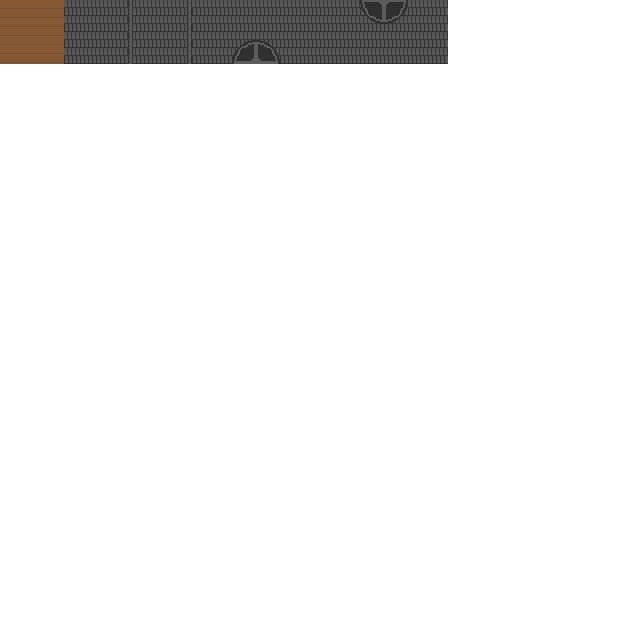
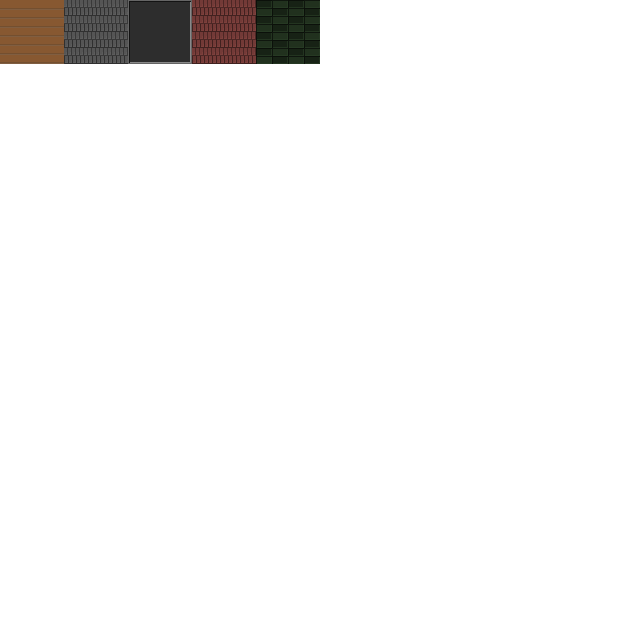
v 0.3.4
Map generation complete

Changed region(s): [[0.1875, 0.0, 0.7188, 0.125]]

diff --git a/src/com/bourneless/roguelike/map/Map.java b/src/com/bourneless/roguelike/map/Map.java
@@ -7,15 +7,17 @@ import java.util.Random;
 import com.bourneless.engine.main.Main;
 import com.bourneless.engine.math.Vector2;
 import com.bourneless.roguelike.entity.Entity;
+import com.bourneless.roguelike.entity.destroyableentity.Door;
 import com.bourneless.roguelike.entity.livingentity.player.Player;
 import com.bourneless.roguelike.map.tile.Tile;
 import com.bourneless.roguelike.map.tile.TileClass;
+import com.bourneless.roguelike.map.tile.TileType;
 import com.bourneless.roguelike.map.tile.WallTileType;
 import com.bourneless.roguelike.screen.LoadScreen;
 
 public class Map {
 
-	private Tile[][] tiles = new Tile[100][100];
+	private Tile[][] tiles = new Tile[103][103];
 	private Room room;
 	private ArrayList<Entity> entities = new ArrayList<Entity>();
 	private Random random = new Random();
@@ -43,63 +45,94 @@ public class Map {
 
 		int roomCount = 500;
 
+		int x = 1;
+		int y = 1;
+		int rowLength = 0;
+
 		for (int i = 0; i < roomCount; i++) {
 
-			int roomTry = 50000;
+			int roomTry = 20000;
 			Room room = null;
 			int size = 0;
-			int x = 0;
-			int y = 0;
+			int size2 = 0;
 			boolean canSpawn = true;
 
 			if (rooms.size() == 0) {
-				size = 5 + random.nextInt(10 - 5 + 1);
+				size = 10;
+				size2 = 10;
+
 				size *= Tile.size;
+				size2 *= Tile.size;
 
-				x = random.nextInt(tiles.length * 64 - size);
-				y = random.nextInt(tiles.length * 64 - size);
+				x *= 64;
+				y *= 64;
 
-				room = new Room(x, y, size, size);
+				room = new Room(x, y, size, size2);
 
 				rooms.add(new Room(room.getRect().x, room.getRect().y, room
 						.getRect().width, room.getRect().height));
+
+				if (x / 64 + size / 64 < tiles.length) {
+					x += size;
+				}
 			}
 
-			looper: for (int j = 0; j < roomTry; j++) {
-				size = 5 + random.nextInt(10 - 5 + 1);
+			for (int j = 0; j < roomTry; j++) {
+				size = 10;
+				size2 = 10;
+
 				size *= Tile.size;
+				size2 *= Tile.size;
 
-				x = random.nextInt(tiles.length * 64 - size);
-				y = random.nextInt(tiles.length * 64 - size);
+				if (x / 64 + size / 64 < tiles.length
+						&& y / 64 + size2 / 64 < tiles.length) {
+					room = new Room(x, y, size, size2);
 
-				room = new Room(x, y, size, size);
+					boolean checkRooms = true;
 
-				boolean checkRooms = true;
-
-				tryingRoom: if (checkRooms) {
-					for (Room r : rooms) {
-						if (r.getRect().intersects(room.getRect())
-								|| r.getRect().contains(room.getRect())
-								|| room.getRect().contains(r.getRect())
-								|| room.getRect().intersects(r.getRect())) {
-							canSpawn = false;
-							checkRooms = false;
-							break tryingRoom;
+					tryingRoom: if (checkRooms) {
+						for (Room r : rooms) {
+							if (r.getRect().intersects(room.getRect())
+									|| r.getRect().contains(room.getRect())
+									|| room.getRect().contains(r.getRect())
+									|| room.getRect().intersects(r.getRect())) {
+								canSpawn = false;
+								checkRooms = false;
+								break tryingRoom;
+							}
 						}
 					}
-				}
 
-				if (canSpawn) {
-					Room newRoom = new Room(room.getRect().x, room.getRect().y,
-							room.getRect().width, room.getRect().height);
-					rooms.add(newRoom);
-					newRoom = null;
+					if (canSpawn) {
+						if (x / 64 + size / 64 < tiles.length
+								&& y / 64 + size2 / 64 < tiles.length) {
+							Room newRoom = new Room(room.getRect().x,
+									room.getRect().y, room.getRect().width,
+									room.getRect().height);
+							rooms.add(newRoom);
+							newRoom = null;
+
+							if (x / 64 + size / 64 < tiles.length - 1) {
+								x += size;
+							}
+						}
+
+						break;
+					}
 				}
 			}
+
 			if (i % 100 == 0) {
 				LoadScreen screen = (LoadScreen) Main.game.getScreen();
 				screen.changeString();
 			}
+
+			if (x / 64 + size / 64 > tiles.length - 1) {
+				rowLength = rooms.size();
+				x = 1 * Tile.size;
+				y += rooms.get(rooms.size() - rowLength).getRect().getHeight();
+			}
+
 		}
 
 		fillRects();
@@ -116,15 +149,23 @@ public class Map {
 							r.getTileStyle(), TileClass.FLOOR, i, j, 0);
 				}
 			}
+
 		}
 
-		for (int i = 0; i < tiles.length; i++) {
-			for (int j = 0; j < tiles.length; j++) {
-				if (j == 0 || i == 0 || j == tiles.length - 1
-						|| i == tiles.length - 1) {
-					tiles[i][j].setTileClass(TileClass.WALL);
-					tiles[i][j].setTileType(WallTileType.TOP_WALL);
-					tiles[i][j].setPassable(false);
+		for (Room r : rooms) {
+			for (int i = (int) r.getRect().getX() / 64; i < r.getRect().getX()
+					/ 64 + r.getRect().width / 64; i++) {
+				for (int j = (int) r.getRect().getY() / 64; j < r.getRect()
+						.getY() / 64 + r.getRect().height / 64; j++) {
+					if (i == (int) r.getRect().getX() / 64
+							|| j == (int) r.getRect().getY() / 64
+							|| i == (int) r.getRect().getX() / 64
+									+ r.getRect().width / 64
+							|| j == (int) r.getRect().getY() / 64
+									+ r.getRect().height / 64) {
+						tiles[i][j] = new Tile(new Vector2(i * 64, j * 64),
+								WallTileType.TOP_WALL, TileClass.WALL, i, j, 0);
+					}
 				}
 			}
 		}
@@ -147,16 +188,109 @@ public class Map {
 			}
 		}
 
+		for (Room r : rooms) {
+			for (int i = (int) r.getRect().getX() / 64; i < r.getRect().getX()
+					/ 64 + r.getRect().width / 64; i++) {
+				for (int j = (int) r.getRect().getY() / 64; j < r.getRect()
+						.getY() / 64 + r.getRect().height / 64; j++) {
+					if (i == (int) r.getRect().getX() / 64
+							|| j == (int) r.getRect().getY() / 64
+							|| i == (int) r.getRect().getX() / 64
+									+ r.getRect().width / 64
+							|| j == (int) r.getRect().getY() / 64
+									+ r.getRect().height / 64) {
+						tiles[i][j] = new Tile(new Vector2(i * 64, j * 64),
+								WallTileType.TOP_WALL, TileClass.WALL, i, j, 0);
+					}
+				}
+			}
+		}
+
+		for (int i = 0; i < tiles.length; i++) {
+			for (int j = 0; j < tiles.length; j++) {
+				if (j == 0 || i == 0 || j == tiles.length - 1
+						|| i == tiles.length - 1) {
+					tiles[i][j].setTileClass(TileClass.WALL);
+					tiles[i][j].setTileType(WallTileType.TOP_WALL);
+					tiles[i][j].setPassable(false);
+				}
+			}
+		}
+
+		for (Room r : rooms) {
+			while (!r.isHasEastDoor()) {
+				if (r.getRect().getX() / 64 < 90) {
+					for (int i = r.getRect().x / 64; i <= r.getRect().x / 64
+							+ r.getRect().width / 64; i++) {
+						for (int j = r.getRect().y / 64; j <= r.getRect().y
+								/ 64 + r.getRect().height / 64; j++) {
+							if (i == r.getRect().x / 64 + r.getRect().width
+									/ 64
+									&& j > r.getRect().y / 64
+									&& j < r.getRect().y / 64
+											+ r.getRect().height / 64) {
+								if (random.nextInt(100) == 1
+										&& !r.isHasEastDoor()) {
+									Door door = new Door(tiles[i][j],
+											Main.resourceLoader.door, true);
+									tiles[i][j].setLayer(0);
+									tiles[i][j].addEntity(door);
+									tiles[i][j].setTileClass(TileClass.FLOOR);
+									tiles[i][j].setTileType(TileType.TUNNEL);
+									entities.add(door);
+									r.setHasEastDoor(true);
+								}
+							}
+						}
+					}
+				} else {
+					r.setHasEastDoor(true);
+				}
+			}
+
+			while (!r.isHasSouthDoor()) {
+				if (r.getRect().getY() / 64 < 90) {
+					for (int i = r.getRect().x / 64; i <= r.getRect().x / 64
+							+ r.getRect().width / 64; i++) {
+						for (int j = r.getRect().y / 64; j <= r.getRect().y
+								/ 64 + r.getRect().height / 64; j++) {
+							if (j == r.getRect().y / 64 + r.getRect().height
+									/ 64
+									&& i > r.getRect().x / 64
+									&& i < r.getRect().x / 64
+											+ r.getRect().width / 64) {
+								if (random.nextInt(100) == 1
+										&& !r.isHasSouthDoor()) {
+									Door door = new Door(tiles[i][j],
+											Main.resourceLoader.door, false);
+									tiles[i][j].setLayer(0);
+									tiles[i][j].addEntity(door);
+									tiles[i][j].setTileClass(TileClass.FLOOR);
+									tiles[i][j].setTileType(TileType.TUNNEL);
+									entities.add(door);
+									r.setHasSouthDoor(true);
+								}
+							}
+						}
+					}
+				} else {
+					r.setHasSouthDoor(true);
+				}
+			}
+
+		}
+
 		boolean hasPlayer = false;
 
 		int spawnPlayer = 0;
 
 		while (!hasPlayer) {
-			System.out.println("spawnin");
 			for (int i = 0; i < tiles.length; i++) {
 				for (int j = 0; j < tiles[i].length; j++) {
 					if (tiles[i][j] != null) {
-						if (tiles[i][j].getTileClass() == TileClass.FLOOR) {
+
+						if (tiles[i][j].getTileClass() == TileClass.FLOOR
+								&& tiles[i][j].getTileType() != TileType.TUNNEL) {
 							spawnPlayer = random.nextInt(1000);
 							if (spawnPlayer == 1 && !hasPlayer) {
 								player = new Player(tiles[i][j],
@@ -171,6 +305,7 @@ public class Map {
 				}
 			}
 		}
+
 	}
 
 	public void update(int xOffset, int yOffset) {

diff --git a/src/com/bourneless/roguelike/map/Room.java b/src/com/bourneless/roguelike/map/Room.java
@@ -25,12 +25,17 @@ public class Room {
 	private int xOffset = 0;
 	private int yOffset = 0;
 
+	private boolean hasEastDoor = false;
+	private boolean hasSouthDoor = false;
+
+	private boolean hasCorridor = false;
+
 	private Player player;
 
 	private Rectangle rect;
 
 	public Room(int x, int y, int size, int size2) {
-		rect = new Rectangle(x, y, size, size);
+		rect = new Rectangle(x, y, size, size2);
 
 		this.tileType = random.nextInt(Main.resourceLoader.tiles.length);
 	}
@@ -62,6 +67,30 @@ public class Room {
 
 	public int getTileStyle() {
 		return this.tileType;
+	}
+
+	public boolean getCorridor() {
+		return this.hasCorridor;
+	}
+
+	public void setHasCorridor(boolean bool) {
+		this.hasCorridor = bool;
+	}
+
+	public boolean isHasEastDoor() {
+		return hasEastDoor;
+	}
+
+	public void setHasEastDoor(boolean hasEastDoor) {
+		this.hasEastDoor = hasEastDoor;
+	}
+
+	public boolean isHasSouthDoor() {
+		return hasSouthDoor;
+	}
+
+	public void setHasSouthDoor(boolean hasSouthDoor) {
+		this.hasSouthDoor = hasSouthDoor;
 	}
 
 }

diff --git a/src/com/bourneless/roguelike/screen/LoadScreen.java b/src/com/bourneless/roguelike/screen/LoadScreen.java
@@ -20,10 +20,11 @@ public class LoadScreen extends Screen {
 
 	private Random random = new Random();
 	private Font font;
-	private String loadingText = "Loading Friends..";
+	private String loadingText = "";
 
 	public LoadScreen() {
 		font = new Font("A Font With Serifs", Font.PLAIN, 50);
+		System.out.println("Creating World..");
 	}
 
 	public void update() {
@@ -54,7 +55,6 @@ public class LoadScreen extends Screen {
 	}
 	
 	public void changeString() {
-		System.out.println("changing text");
 		loadingText = Main.resourceLoader.loadingText.get(random
 				.nextInt(Main.resourceLoader.loadingText.size()));
 		paint((Graphics2D) Main.game.getGraphics());

diff --git a/src/com/bourneless/engine/main/ResourceLoader.java b/src/com/bourneless/engine/main/ResourceLoader.java
@@ -115,9 +115,9 @@ public class ResourceLoader {
 
 		BufferedImage tileSheet = getBufferedImage("res/tile/tileSheet.png");
 		rows = 1;
-		cols = 2;
+		cols = 5;
 		iteration = 0;
-		tiles = new BufferedImage[2];
+		tiles = new BufferedImage[5];
 
 		for (int i = 0; i < rows; i++) {
 			for (int j = 0; j < cols; j++) {
@@ -176,6 +176,7 @@ public class ResourceLoader {
 
 		sideDoor[0] = getBufferedImage("res/entity/door/sideDoor1.png");
 		sideDoor[1] = getBufferedImage("res/entity/door/sideDoor2.png");
+
 		// Map
 
 		rooms = new BufferedImage[2];

diff --git a/src/com/bourneless/roguelike/entity/destroyableentity/Door.java b/src/com/bourneless/roguelike/entity/destroyableentity/Door.java
@@ -16,7 +16,6 @@ public class Door extends DestroyableEntity {
 		super(tile, Main.resourceLoader.door[0], EntityType.BREAKABLE);
 		this.solid = true;
 		this.side = side;
-
 	}
 
 	public void paint(Graphics2D g) {

diff --git a/src/com/bourneless/roguelike/map/tile/TileType.java b/src/com/bourneless/roguelike/map/tile/TileType.java
@@ -4,5 +4,5 @@ public class TileType {
 	
 	public static final int WOOD_FLOOR = 0;
 	public static final int STONE_FLOOR = 1;
-	
+	public static final int TUNNEL = 2;
 }
